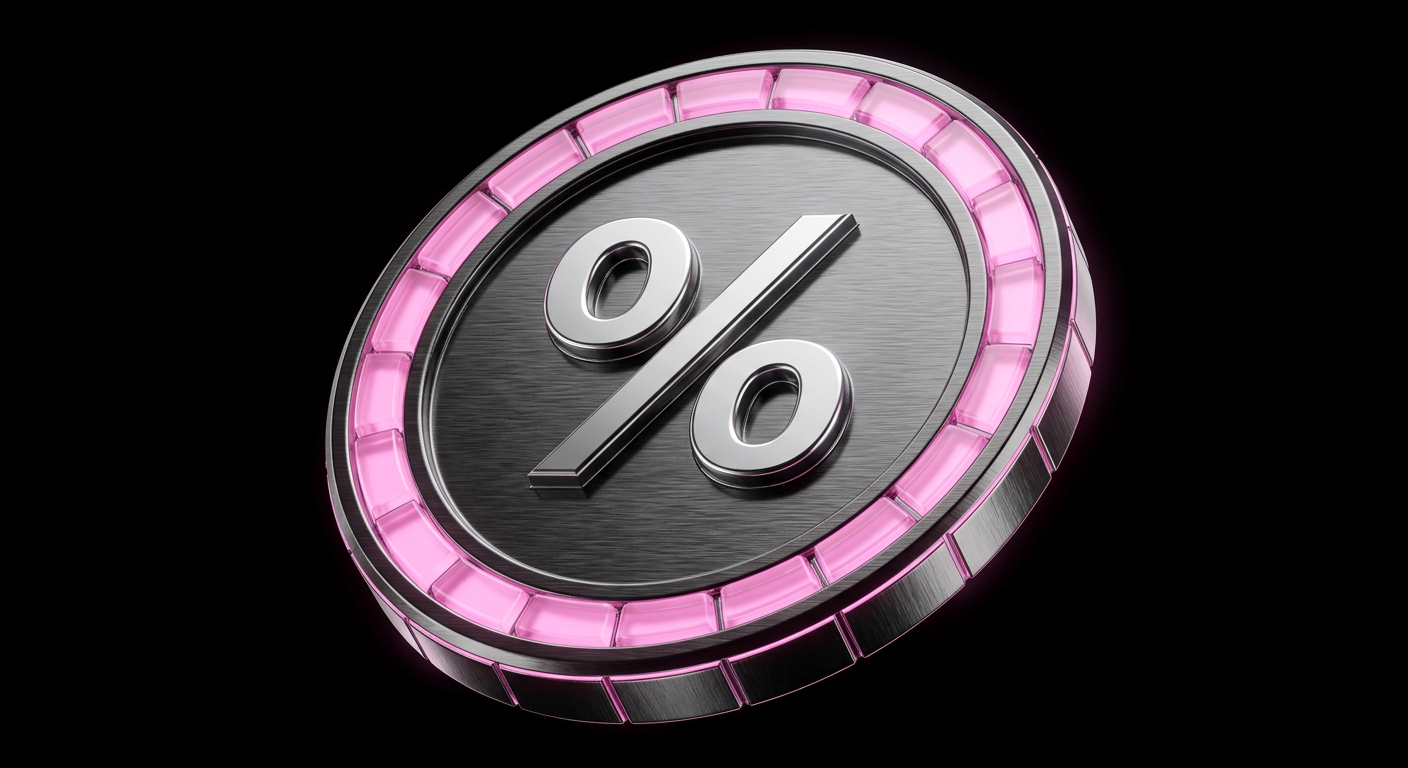
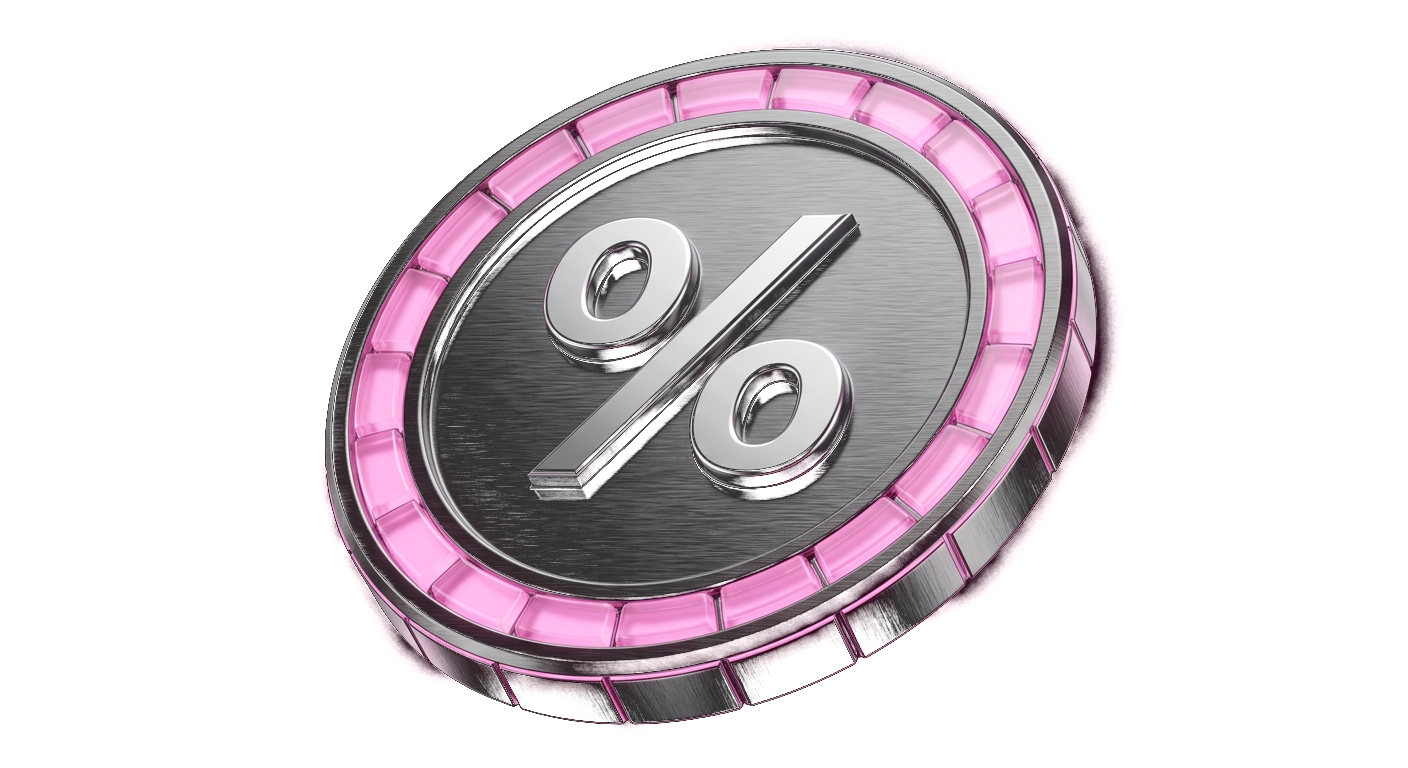
feat: add animated value orb component and related styles

diff --git a/components/about/value-orb.tsx b/components/about/value-orb.tsx
@@ -1,0 +1,231 @@
+'use client'
+
+import Image from 'next/image'
+import { useEffect, useRef, type CSSProperties } from 'react'
+
+type Point3 = { x: number; y: number; z: number; size: number; bright: boolean }
+type RingParticle = { angle: number; speed: number; radius: number; size: number }
+type Spark = { x: number; y: number; vy: number; life: number; max: number; size: number }
+
+const SPHERE_COUNT = 140
+const RING_COUNT = 70
+const SPARK_COUNT = 14
+
+function fibonacciSphere(count: number): Point3[] {
+  const golden = Math.PI * (3 - Math.sqrt(5))
+  return Array.from({ length: count }, (_, i) => {
+    const y = 1 - (i / (count - 1)) * 2
+    const r = Math.sqrt(1 - y * y)
+    const theta = golden * i
+    return {
+      x: Math.cos(theta) * r,
+      y,
+      z: Math.sin(theta) * r,
+      size: 0.5 + Math.random() * 1.1,
+      bright: Math.random() < 0.12,
+    }
+  })
+}
+
+export function ValueOrb({ src, ringTilt = -18, delay = 0 }: { src: string; ringTilt?: number; delay?: number }) {
+  const wrapRef = useRef<HTMLDivElement>(null)
+  const iconRef = useRef<HTMLDivElement>(null)
+  const backRef = useRef<HTMLCanvasElement>(null)
+  const frontRef = useRef<HTMLCanvasElement>(null)
+
+  useEffect(() => {
+    const wrap = wrapRef.current
+    const icon = iconRef.current
+    const back = backRef.current?.getContext('2d')
+    const front = frontRef.current?.getContext('2d')
+    if (!wrap || !icon || !back || !front) return
+
+    const reduceMotion = window.matchMedia('(prefers-reduced-motion: reduce)').matches
+    const styles = getComputedStyle(document.documentElement)
+    const accent = styles.getPropertyValue('--color-gold').trim() || '#e9a8d0'
+    const light = styles.getPropertyValue('--color-foreground').trim() || '#f5f5f5'
+
+    let size = 0
+    const resize = () => {
+      size = wrap.getBoundingClientRect().width
+      const dpr = Math.min(window.devicePixelRatio || 1, 2)
+      for (const ctx of [back, front]) {
+        ctx.canvas.width = Math.round(size * dpr)
+        ctx.canvas.height = Math.round(size * dpr)
+        ctx.setTransform(dpr, 0, 0, dpr, 0, 0)
+      }
+    }
+    resize()
+
+    const sphere = fibonacciSphere(SPHERE_COUNT)
+    const ring: RingParticle[] = Array.from({ length: RING_COUNT }, () => ({
+      angle: Math.random() * Math.PI * 2,
+      speed: 0.006 + Math.random() * 0.006,
+      radius: 0.44 + (Math.random() - 0.5) * 0.04,
+      size: 0.6 + Math.random() * 1.5,
+    }))
+    const makeSpark = (): Spark => ({
+      x: size * (0.3 + Math.random() * 0.4),
+      y: size * (0.7 + Math.random() * 0.15),
+      vy: 0.25 + Math.random() * 0.5,
+      life: 0,
+      max: 80 + Math.random() * 100,
+      size: 0.6 + Math.random() * 1.2,
+    })
+    const sparks = Array.from({ length: SPARK_COUNT }, () => {
+      const s = makeSpark()
+      s.life = Math.random() * s.max
+      return s
+    })
+
+    const tilt = (ringTilt * Math.PI) / 180
+    let rotY = Math.random() * Math.PI * 2
+    let pointerX = 0
+    let pointerY = 0
+    let raf = 0
+    let visible = true
+
+    const dot = (ctx: CanvasRenderingContext2D, x: number, y: number, r: number, alpha: number, color: string, glow = 0) => {
+      ctx.globalAlpha = alpha
+      ctx.fillStyle = color
+      ctx.shadowBlur = glow
+      ctx.shadowColor = color
+      ctx.beginPath()
+      ctx.arc(x, y, r, 0, Math.PI * 2)
+      ctx.fill()
+    }
+
+    const draw = () => {
+      back.clearRect(0, 0, size, size)
+      front.clearRect(0, 0, size, size)
+      const cx = size / 2
+      const cy = size / 2
+      const radius = size * 0.4
+      const focal = size * 1.6
+
+      rotY += 0.004
+      const ry = rotY + pointerX * 0.6
+      const rx = -0.35 + pointerY * 0.5
+      const cosY = Math.cos(ry)
+      const sinY = Math.sin(ry)
+      const cosX = Math.cos(rx)
+      const sinX = Math.sin(rx)
+
+      for (const p of sphere) {
+        const x1 = p.x * cosY - p.z * sinY
+        const z1 = p.x * sinY + p.z * cosY
+        const y2 = p.y * cosX - z1 * sinX
+        const z2 = p.y * sinX + z1 * cosX
+        const scale = focal / (focal - z2 * radius)
+        const depth = (z2 + 1) / 2
+        const ctx = z2 > 0.15 ? front : back
+        dot(
+          ctx,
+          cx + x1 * radius * scale,
+          cy + y2 * radius * scale,
+          p.size * scale * (0.5 + depth * 0.6),
+          0.12 + depth * (p.bright ? 0.85 : 0.5),
+          p.bright ? light : accent,
+          p.bright && depth > 0.7 ? 8 : 0,
+        )
+      }
+
+      for (const p of ring) {
+        p.angle += p.speed
+        const ex = Math.cos(p.angle) * size * p.radius
+        const ey = Math.sin(p.angle) * size * p.radius * 0.24
+        const x = cx + ex * Math.cos(tilt) - ey * Math.sin(tilt)
+        const y = cy + ex * Math.sin(tilt) + ey * Math.cos(tilt)
+        const depth = (Math.sin(p.angle) + 1) / 2
+        const isHead = p.size > 1.9
+        dot(
+          Math.sin(p.angle) > 0 ? front : back,
+          x,
+          y,
+          p.size * (0.6 + depth * 0.7),
+          0.2 + depth * 0.8,
+          isHead ? light : accent,
+          isHead && depth > 0.6 ? 12 : 0,
+        )
+      }
+
+      for (const s of sparks) {
+        s.life++
+        s.y -= s.vy
+        s.x += Math.sin((s.life + s.x) * 0.06) * 0.25
+        const t = s.life / s.max
+        dot(front, s.x, s.y, s.size, Math.sin(Math.PI * Math.min(t, 1)) * 0.85, t < 0.5 ? light : accent)
+        if (s.life >= s.max) Object.assign(s, makeSpark())
+      }
+
+      back.globalAlpha = 1
+      front.globalAlpha = 1
+      back.shadowBlur = 0
+      front.shadowBlur = 0
+      if (visible) raf = requestAnimationFrame(draw)
+    }
+
+    const onPointerMove = (event: PointerEvent) => {
+      const rect = wrap.getBoundingClientRect()
+      pointerX = (event.clientX - rect.left) / rect.width - 0.5
+      pointerY = (event.clientY - rect.top) / rect.height - 0.5
+      icon.style.setProperty('--tilt-x', `${(-pointerY * 24).toFixed(2)}deg`)
+      icon.style.setProperty('--tilt-y', `${(pointerX * 30).toFixed(2)}deg`)
+    }
+    const onPointerLeave = () => {
+      pointerX = 0
+      pointerY = 0
+      icon.style.setProperty('--tilt-x', '0deg')
+      icon.style.setProperty('--tilt-y', '0deg')
+    }
+
+    const resizeObserver = new ResizeObserver(resize)
+    resizeObserver.observe(wrap)
+    const hoverTarget = wrap.closest('li') ?? wrap
+
+    let intersectionObserver: IntersectionObserver | undefined
+    if (reduceMotion) {
+      visible = false
+      draw()
+    } else {
+      intersectionObserver = new IntersectionObserver(([entry]) => {
+        visible = entry.isIntersecting
+        cancelAnimationFrame(raf)
+        if (visible) raf = requestAnimationFrame(draw)
+      })
+      intersectionObserver.observe(wrap)
+      hoverTarget.addEventListener('pointermove', onPointerMove as EventListener)
+      hoverTarget.addEventListener('pointerleave', onPointerLeave)
+    }
+
+    return () => {
+      cancelAnimationFrame(raf)
+      resizeObserver.disconnect()
+      intersectionObserver?.disconnect()
+      hoverTarget.removeEventListener('pointermove', onPointerMove as EventListener)
+      hoverTarget.removeEventListener('pointerleave', onPointerLeave)
+    }
+  }, [ringTilt])
+
+  return (
+    <div
+      ref={wrapRef}
+      className="relative aspect-square w-full max-w-[300px] [perspective:900px]"
+      style={{ '--orb-delay': `${delay}s` } as CSSProperties}
+    >
+      <div aria-hidden="true" className="value-halo pointer-events-none absolute inset-[14%] rounded-full" />
+      <canvas ref={backRef} aria-hidden="true" className="pointer-events-none absolute inset-0 size-full" />
+      <div ref={iconRef} className="value-tilt absolute -inset-[8%]">
+        <div className="value-spin relative size-full">
+          <Image src={src} alt="" width={512} height={512} className="value-mask size-full object-contain" />
+          <div
+            aria-hidden="true"
+            className="value-shine pointer-events-none absolute inset-0"
+            style={{ maskImage: `url(${src})`, WebkitMaskImage: `url(${src})` } as CSSProperties}
+          />
+        </div>
+      </div>
+      <canvas ref={frontRef} aria-hidden="true" className="pointer-events-none absolute inset-0 size-full" />
+    </div>
+  )
+}

diff --git a/app/globals.css b/app/globals.css
@@ -308,6 +308,77 @@ html.lenis body {
   }
 }
 
+.value-halo {
+  background: conic-gradient(
+    from 0deg,
+    transparent 0deg,
+    color-mix(in oklab, var(--color-gold) 55%, transparent) 70deg,
+    transparent 140deg,
+    color-mix(in oklab, var(--color-foreground) 25%, transparent) 220deg,
+    transparent 290deg
+  );
+  filter: blur(26px);
+  opacity: 0.7;
+  animation: value-halo 7s linear infinite;
+  animation-delay: var(--orb-delay, 0s);
+}
+
+.value-tilt {
+  transform: rotateX(var(--tilt-x, 0deg)) rotateY(var(--tilt-y, 0deg));
+  transform-style: preserve-3d;
+  transition: transform 0.6s cubic-bezier(0.22, 1, 0.36, 1);
+}
+
+.value-spin {
+  transform-style: preserve-3d;
+  animation: value-spin 8s ease-in-out infinite;
+  animation-delay: var(--orb-delay, 0s);
+}
+
+.value-mask {
+  filter: drop-shadow(0 18px 28px color-mix(in oklab, var(--color-gold) 30%, transparent));
+}
+
+.value-shine {
+  mask-mode: alpha;
+  mask-size: contain;
+  mask-repeat: no-repeat;
+  mask-position: center;
+  background: linear-gradient(
+    105deg,
+    transparent 35%,
+    color-mix(in oklab, var(--color-foreground) 70%, transparent) 48%,
+    color-mix(in oklab, var(--color-gold) 60%, transparent) 52%,
+    transparent 65%
+  );
+  background-size: 300% 100%;
+  mix-blend-mode: screen;
+  animation: value-shine 4.2s ease-in-out infinite;
+  animation-delay: var(--orb-delay, 0s);
+}
+
+@keyframes value-halo {
+  to { transform: rotate(360deg); }
+}
+
+@keyframes value-spin {
+  0%, 100% { transform: translateY(0) rotateY(-28deg) rotateX(6deg); }
+  50% { transform: translateY(-12px) rotateY(28deg) rotateX(-6deg); }
+}
+
+@keyframes value-shine {
+  0% { background-position: 120% 0; }
+  55%, 100% { background-position: -40% 0; }
+}
+
+@media (prefers-reduced-motion: reduce) {
+  .value-halo,
+  .value-spin,
+  .value-shine {
+    animation: none;
+  }
+}
+
 .laser-badge {
   background: radial-gradient(circle, color-mix(in oklab, var(--color-gold) 14%, transparent), transparent 70%);
   box-shadow: inset 0 0 0 1px color-mix(in oklab, var(--color-gold) 30%, transparent),

diff --git a/components/about/about-sections.tsx b/components/about/about-sections.tsx
@@ -8,6 +8,7 @@ import Link from 'next/link'
 import type { Bi } from '@/lib/i18n'
 import { useI18n } from '@/lib/i18n'
 import { ParticleCoin } from './particle-coin'
+import { ValueOrb } from './value-orb'
 
 const reveal = {
   initial: { opacity: 0, y: 24 },
@@ -225,13 +226,7 @@ export function Values() {
               className="group flex flex-col items-center gap-6 rounded-3xl bg-raised px-6 pb-6 pt-10 transition-colors hover:bg-raised/70"
             >
               <h3 className="text-center text-xl font-bold text-foreground">{t(v.title.zh, v.title.en)}</h3>
-              <Image
-                src={v.image}
-                alt=""
-                width={512}
-                height={512}
-                className="aspect-square w-full max-w-[240px] object-contain mix-blend-lighten transition-transform duration-500 group-hover:-translate-y-2"
-              />
+              <ValueOrb src={v.image} ringTilt={[-18, 14, -8][i]} delay={i * -1.4} />
             </motion.li>
           ))}
         </ul>
@@ -303,7 +298,7 @@ const NEWS: { tag: Bi; title: Bi; excerpt: Bi; cover: string; headline: Bi; tone
     tag: { zh: '品牌动态', en: 'Brand News' },
     title: { zh: '加密友好型证券平台 OXXX 正式上线，一账户打通美股与加密', en: 'OXXX launches: one account for US stocks and crypto' },
     excerpt: {
-      zh: 'OXXX 正式上线，公测两月累计收到 788 条产品反馈，完成了一轮以真实用户为核心���打磨。',
+      zh: 'OXXX 正式上线，公测两月累计收到 788 条产品反馈，完成了一轮以真实用户为核心���打磨��',
       en: 'After a two-month public beta and 788 pieces of product feedback, OXXX is officially live.',
     },
     cover: '/images/chrome-bull.png',
